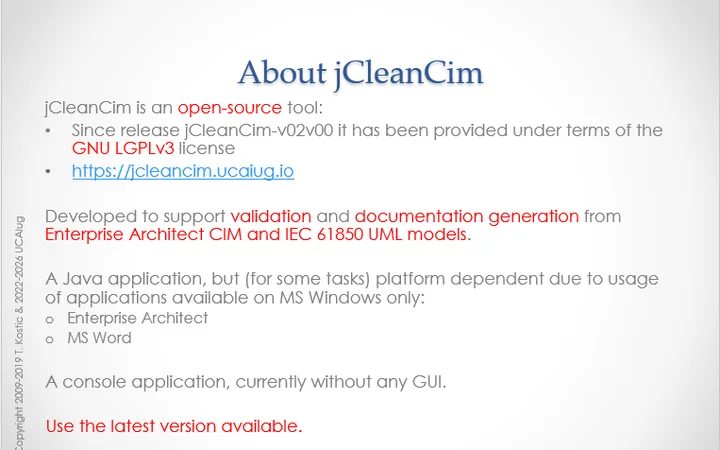
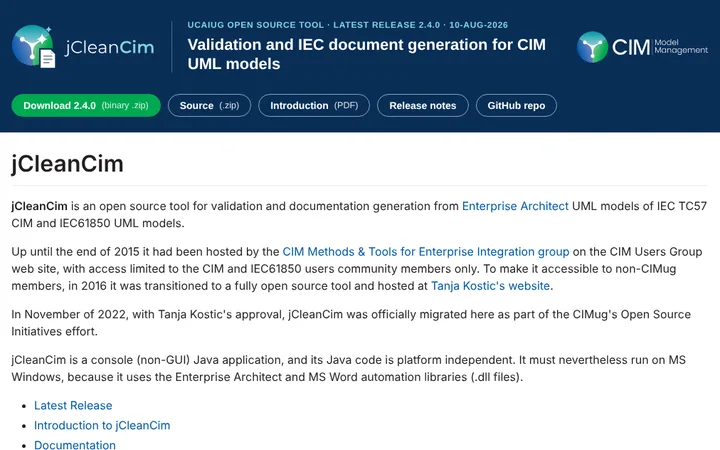
Landing page: new jCleanCim screenshot and rebrand news item
- jCleanCim card: screenshot of the rebranded jcleancim.ucaiug.io
  (header close-up thumbnail; full page in the lightbox)
- Latest: add 'jcleancim.ucaiug.io rebranded with a new jCleanCim
  logo' (16-Oct-2026); panel now shows six items

Claude-Session: https://claude.ai/code/session_012ipYnarejRJHvQT8mHcFqa

diff --git a/index.html b/index.html
@@ -24,7 +24,7 @@ layout: default
       <section class="uca-news" aria-labelledby="latest">
         <h2 class="uca-news-head" id="latest">Latest</h2>
         <ul>
-          {%- for item in site.data.news limit: 5 %}
+          {%- for item in site.data.news limit: 6 %}
           {%- assign t = item.tag | upcase %}
           {%- if t == "UPDATED" or t == "NEW FEATURE" %}{% assign tc = "teal" %}{% elsif t == "PENDING FEATURE" or t == "UPCOMING" %}{% assign tc = "amber" %}{% else %}{% assign tc = "green" %}{% endif %}
           <li>
